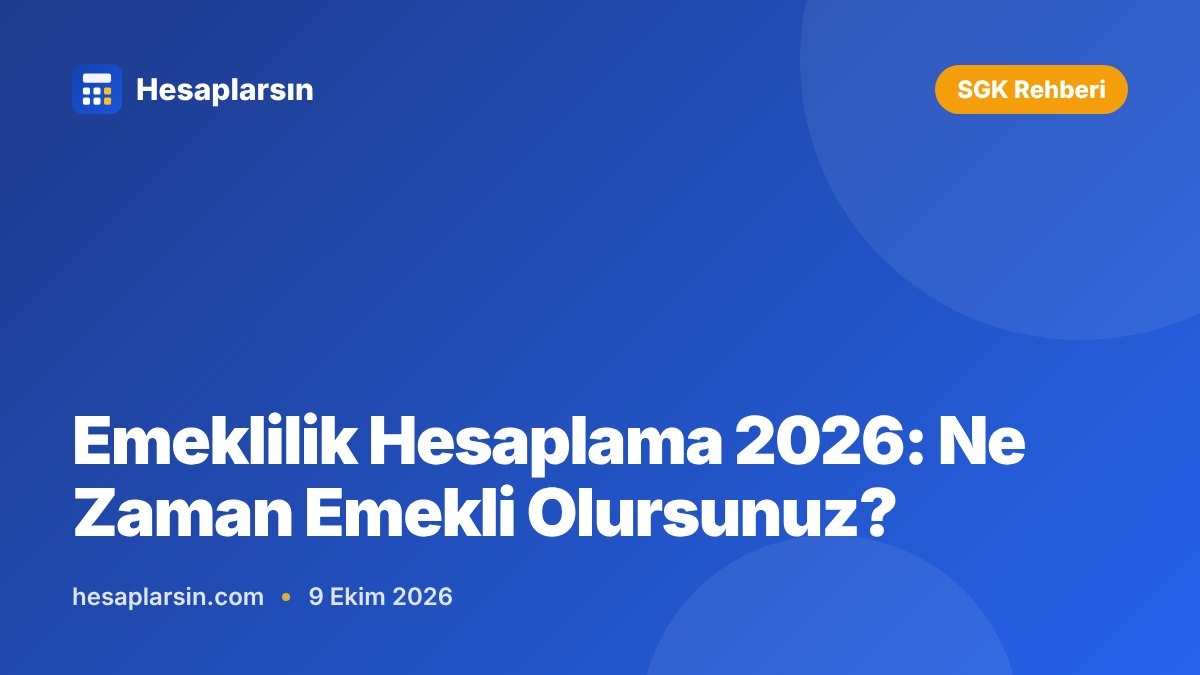
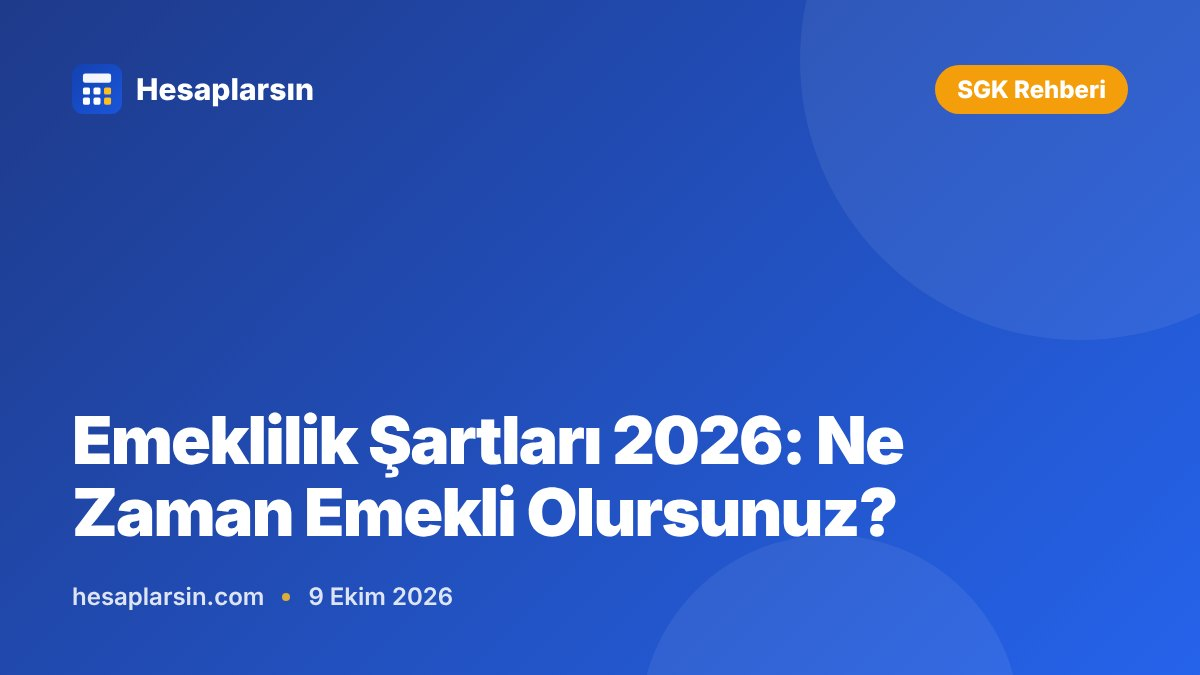
Emeklilik hesaplama: SSK, Bağ-Kur, memur; tahmini emeklilik tarihi; blog başlığı ayrıştırıldı
Claude-Session: https://claude.ai/code/session_014PFzT8PKqmvZPFyis9sZvQ

Changed region(s): [[0.3083, 0.5911, 0.8633, 0.7156]]

diff --git a/blog/emeklilik-hesaplama-2026.html b/blog/emeklilik-hesaplama-2026.html
@@ -3,12 +3,12 @@
 <head>
   <meta charset="UTF-8" />
   <meta name="viewport" content="width=device-width, initial-scale=1.0, maximum-scale=5.0" />
-  <title>Emeklilik Hesaplama 2026 – Ne Zaman Emekli Olurum?</title>
+  <title>Emeklilik Şartları 2026: SSK, Bağ-Kur ve Memur Rehberi | Hesaplarsın</title>
   <meta name="description" content="2026 emeklilik şartları: yaş, prim günü, EYT ve kademeli emeklilik tablosu. SGK’ya göre ne zaman emekli olabileceğinizi öğrenin." />
   <meta name="keywords" content="emeklilik hesaplama 2026, ne zaman emekli olurum, SGK prim günü hesaplama, emekli maaşı ne kadar, erken emeklilik şartları, emeklilik yaşı 2026, kademeli emeklilik" />
   <link rel="canonical" href="https://hesaplarsin.com/blog/emeklilik-hesaplama-2026.html" />
   <meta name="robots" content="index, follow, max-image-preview:large, max-snippet:-1" />
-  <meta property="og:title" content="Emeklilik Hesaplama 2026 – Ne Zaman Emekli Olurum?" />
+  <meta property="og:title" content="Emeklilik Şartları 2026: SSK, Bağ-Kur ve Memur Rehberi" />
   <meta property="og:description" content="2026 emeklilik şartları: yaş, prim günü, EYT ve kademeli emeklilik tablosu. SGK’ya göre ne zaman emekli olabileceğinizi öğrenin." />
   <meta property="og:url" content="https://hesaplarsin.com/blog/emeklilik-hesaplama-2026.html" />
   <meta property="og:type" content="article" />
@@ -16,7 +16,7 @@
   <meta property="article:published_time" content="2026-10-09" />
   <script async src="https://www.googletagmanager.com/gtag/js?id=G-FT582GF9N9"></script>
   <script>window.dataLayer=window.dataLayer||[];function gtag(){dataLayer.push(arguments);}gtag('consent','default',{ad_storage:'denied',ad_user_data:'denied',ad_personalization:'denied',analytics_storage:'denied',region:['AT','BE','BG','HR','CY','CZ','DK','EE','FI','FR','DE','GR','HU','IS','IE','IT','LV','LI','LT','LU','MT','NL','NO','PL','PT','RO','SK','SI','ES','SE','GB','CH'],wait_for_update:500});gtag('consent','default',{ad_storage:'granted',ad_user_data:'granted',ad_personalization:'granted',analytics_storage:'granted'});gtag('js',new Date());gtag('config','G-FT582GF9N9');</script>
-  <script type="application/ld+json">{"@context": "https://schema.org", "@type": "Article", "headline": "Emeklilik Hesaplama 2026", "datePublished": "2026-10-09", "dateModified": "2026-10-21", "author": {"@type": "Organization", "name": "Hesaplarsın", "url": "https://hesaplarsin.com"}, "publisher": {"@type": "Organization", "name": "Hesaplarsın"}, "image": ["https://hesaplarsin.com/assets/blog/emeklilik-hesaplama-2026.jpg"]}</script>
+  <script type="application/ld+json">{"@context": "https://schema.org", "@type": "Article", "headline": "Emeklilik Şartları 2026: Ne Zaman Emekli Olursunuz?", "datePublished": "2026-10-09", "dateModified": "2026-10-21", "author": {"@type": "Organization", "name": "Hesaplarsın", "url": "https://hesaplarsin.com"}, "publisher": {"@type": "Organization", "name": "Hesaplarsın"}, "image": ["https://hesaplarsin.com/assets/blog/emeklilik-hesaplama-2026.jpg"]}</script>
   <script type="application/ld+json">{"@context": "https://schema.org", "@type": "FAQPage", "mainEntity": [{"@type": "Question", "name": "2026'da emekli olmak için kaç yıl çalışmak gerekiyor?", "acceptedAnswer": {"@type": "Answer", "text": "1 Eylül 1999 sonrası sigortalı olanlar için emeklilik şartı: kadınlar 58 yaş + 7.000 prim günü + 25 yıl sigortalılık; erkekler 60 yaş + 7.000 prim günü + 25 yıl sigortalılık. 2008 sonrası sigortalılar için prim günü şartı 9.000 güne çıkmaktadır. Bu üç şartten hangisi en geç tamamlanıyorsa o tarihte emekli olunur."}}, {"@type": "Question", "name": "Emekli maaşı nasıl hesaplanır?", "acceptedAnswer": {"@type": "Answer", "text": "SGK emekli maaşı = Ortalama Aylık Kazanç × Bağlama Oranı formülüyle hesaplanır. Bağlama oranı ilk 10 yıl için yılda %2, sonraki yıllar için %1,5 artar. 25 yıl prim ödeyenlerde toplam bağlama oranı %42,5 olur. Örneğin ortalama 50.000 TL brüt maaşla 25 yıl çalışan biri yaklaşık 21.250 TL emekli maaşı alır."}}, {"@type": "Question", "name": "EYT kapsamında kimler emekli olabilir?", "acceptedAnswer": {"@type": "Answer", "text": "8 Eylül 1999'dan önce ilk defa sigortalı olan ve sigortalılık süresini dolduranlar EYT kapsamında yaş şartı aranmaksızın emekli olabilmektedir. Kadınlar için 20 yıl sigortalılık + 5.000 prim günü, erkekler için 25 yıl + 5.000 prim günü şartı aranır. 2023'te yürürlüğe giren bu hak 2026'da geçerliliğini korumaktadır."}}, {"@type": "Question", "name": "Prim günümü e-Devlet'ten öğrenebilir miyim?", "acceptedAnswer": {"@type": "Answer", "text": "Evet. e-devlet.gov.tr adresine giriş yaptıktan sonra \"SGK Hizmet Dökümü\" ya da \"SGK Tescil ve Hizmet Dökümü\" ekranından bugüne kadar biriken prim gününüzü, sigortalılık başlangıç tarihinizi ve çalışma dönemlerinizi görebilirsiniz. Ayrıca \"Emekliliğe Hak Kazanma Tarihi Sorgulama\" servisi tahmini emeklilik tarihinizi otomatik hesaplar."}}, {"@type": "Question", "name": "Emekli olduktan sonra çalışabilir miyim?", "acceptedAnswer": {"@type": "Answer", "text": "Evet, emekli olduktan sonra hem maaşınızı alıp hem de çalışmaya devam edebilirsiniz. Ancak çalışırken aylık maaşınızdan %7,5 Sosyal Güvenlik Destek Primi kesilir. Ek iş geliriniz de gelir vergisine tabidir. Bazı kamu görevleri emekli maaşının kesilmesine neden olabilir; bu nedenle yeni işe başlamadan önce SGK'ya danışılması önerilir."}}, {"@type": "Question", "name": "EYT (Emeklilikte Yaşa Takılanlar) haklarından kimler yararlanabilir?", "acceptedAnswer": {"@type": "Answer", "text": "8 Eylül 1999'dan önce sigortalı olan ve prim günü ile sigortalılık süresini dolduranlar EYT kapsamında yaş şartı aranmaksızın emekli olabilmektedir. 2023'te yürürlüğe giren bu hak, 2026 itibarıyla geçerliliğini korumaktadır."}}]}</script>
   <script type="application/ld+json">{"@context":"https://schema.org","@type":"BreadcrumbList","itemListElement":[{"@type":"ListItem","position":1,"name":"Ana Sayfa","item":"https://hesaplarsin.com"},{"@type":"ListItem","position":2,"name":"Blog","item":"https://hesaplarsin.com/blog.html"},{"@type":"ListItem","position":3,"name":"Emeklilik Hesaplama 2026","item":"https://hesaplarsin.com/blog/emeklilik-hesaplama-2026.html"}]}</script>
   <style>
@@ -165,7 +165,7 @@
     <span>⏱ 8 dk okuma</span>
   </div>
 
-  <h1>Emeklilik Hesaplama 2026: Ne Zaman Emekli Olursunuz?</h1>
+  <h1>Emeklilik Şartları 2026: Ne Zaman Emekli Olursunuz?</h1>
 
   <p>"Ne zaman emekli olurum?" sorusu Türkiye'nin en sık aranan finansal sorularından biri. Ancak cevap, sigortalılık başlangıç tarihinize, prim günü sayınıza ve doğum yılınıza göre değişiyor. Bu rehberde 2026 güncel emeklilik şartlarını, maaş hesaplamasını ve EYT haklarını açıklıyoruz.</p>
 

diff --git a/memur-emekli-zammi-hesaplama.html b/memur-emekli-zammi-hesaplama.html
@@ -198,7 +198,7 @@ p a,td a,li p a{text-decoration:underline;text-underline-offset:2px}
     
     <div class="card">
       <div class="side-title">🔗 İlgili Hesaplamalar</div>
-      <a class="ql" href="https://hesaplarsin.com/memur-maaslari.html"><i>🏛</i><span>Memur Maaşları 2026–2027<small>14 unvanın maaşı ve Ocak 2027 tahmini.</small></span></a><a class="ql" href="https://hesaplarsin.com/ogretmen-maasi.html"><i>👩🏫</i><span>Öğretmen Maaşı<small>Öğretmen ve uzman öğretmen maaşı, ek ders ücreti.</small></span></a><a class="ql" href="https://hesaplarsin.com/maas-zam-hesaplama.html"><i>📊</i><span>Maaş Zam Hesaplama<small>Zam oranına göre yeni maaşını hesapla.</small></span></a><a class="ql" href="https://hesaplarsin.com/kidem-tazminati-hesaplama.html"><i>📄</i><span>Kıdem Tazminatı<small>Kıdem tazminatı tutarını hesapla.</small></span></a><a class="ql" href="https://hesaplarsin.com/emeklilik-yasi-hesaplama.html"><i>🎖</i><span>Emeklilik Yaşı Hesaplama<small>SGK'ya göre emeklilik yaşını hesapla.</small></span></a>
+      <a class="ql" href="https://hesaplarsin.com/memur-maaslari.html"><i>🏛</i><span>Memur Maaşları 2026–2027<small>14 unvanın maaşı ve Ocak 2027 tahmini.</small></span></a><a class="ql" href="https://hesaplarsin.com/ogretmen-maasi.html"><i>👩🏫</i><span>Öğretmen Maaşı<small>Öğretmen ve uzman öğretmen maaşı, ek ders ücreti.</small></span></a><a class="ql" href="https://hesaplarsin.com/maas-zam-hesaplama.html"><i>📊</i><span>Maaş Zam Hesaplama<small>Zam oranına göre yeni maaşını hesapla.</small></span></a><a class="ql" href="https://hesaplarsin.com/kidem-tazminati-hesaplama.html"><i>📄</i><span>Kıdem Tazminatı<small>Kıdem tazminatı tutarını hesapla.</small></span></a><a class="ql" href="https://hesaplarsin.com/emeklilik-yasi-hesaplama.html"><i>🎖</i><span>Emeklilik Hesaplama<small>Ne zaman emekli olurum? SSK, Bağ-Kur, memur.</small></span></a>
     </div>
   </aside>
 </div>
@@ -243,7 +243,7 @@ p a,td a,li p a{text-decoration:underline;text-underline-offset:2px}
   <div class="meta-box"><span>🗓 Son güncelleme: <time datetime="2026-10-21">21 Ekim 2026</time></span><span>✍ Hazırlayan: Hesaplarsın Editör Ekibi</span><span>⚠ Sonuçlar bilgilendirme amaçlıdır.</span></div>
   </div>
   <h2>Diğer Hesaplama Araçları</h2>
-  <div class="related-grid"><a class="rc" href="https://hesaplarsin.com/memur-maaslari.html"><span class="ri">🏛</span><span class="rt">Memur Maaşları 2026–2027</span><span class="rd">14 unvanın maaşı ve Ocak 2027 tahmini.</span></a><a class="rc" href="https://hesaplarsin.com/ogretmen-maasi.html"><span class="ri">👩🏫</span><span class="rt">Öğretmen Maaşı</span><span class="rd">Öğretmen ve uzman öğretmen maaşı, ek ders ücreti.</span></a><a class="rc" href="https://hesaplarsin.com/maas-zam-hesaplama.html"><span class="ri">📊</span><span class="rt">Maaş Zam Hesaplama</span><span class="rd">Zam oranına göre yeni maaşını hesapla.</span></a><a class="rc" href="https://hesaplarsin.com/kidem-tazminati-hesaplama.html"><span class="ri">📄</span><span class="rt">Kıdem Tazminatı</span><span class="rd">Kıdem tazminatı tutarını hesapla.</span></a><a class="rc" href="https://hesaplarsin.com/emeklilik-yasi-hesaplama.html"><span class="ri">🎖</span><span class="rt">Emeklilik Yaşı Hesaplama</span><span class="rd">SGK'ya göre emeklilik yaşını hesapla.</span></a></div>
+  <div class="related-grid"><a class="rc" href="https://hesaplarsin.com/memur-maaslari.html"><span class="ri">🏛</span><span class="rt">Memur Maaşları 2026–2027</span><span class="rd">14 unvanın maaşı ve Ocak 2027 tahmini.</span></a><a class="rc" href="https://hesaplarsin.com/ogretmen-maasi.html"><span class="ri">👩🏫</span><span class="rt">Öğretmen Maaşı</span><span class="rd">Öğretmen ve uzman öğretmen maaşı, ek ders ücreti.</span></a><a class="rc" href="https://hesaplarsin.com/maas-zam-hesaplama.html"><span class="ri">📊</span><span class="rt">Maaş Zam Hesaplama</span><span class="rd">Zam oranına göre yeni maaşını hesapla.</span></a><a class="rc" href="https://hesaplarsin.com/kidem-tazminati-hesaplama.html"><span class="ri">📄</span><span class="rt">Kıdem Tazminatı</span><span class="rd">Kıdem tazminatı tutarını hesapla.</span></a><a class="rc" href="https://hesaplarsin.com/emeklilik-yasi-hesaplama.html"><span class="ri">🎖</span><span class="rt">Emeklilik Hesaplama</span><span class="rd">Ne zaman emekli olurum? SSK, Bağ-Kur, memur.</span></a></div>
 </article>
 
 <footer>

diff --git a/yas-hesaplama.html b/yas-hesaplama.html
@@ -197,7 +197,7 @@ p a,td a,li p a{text-decoration:underline;text-underline-offset:2px}
     
     <div class="card">
       <div class="side-title">🔗 İlgili Hesaplamalar</div>
-      <a class="ql" href="https://hesaplarsin.com/gun-hesaplama.html"><i>📅</i><span>Gün Hesaplama<small>İki tarih arasındaki gün sayısını hesapla.</small></span></a><a class="ql" href="https://hesaplarsin.com/is-gunu-hesaplama.html"><i>📆</i><span>İş Günü Hesaplama<small>İki tarih arasındaki iş gününü hesapla.</small></span></a><a class="ql" href="https://hesaplarsin.com/emeklilik-yasi-hesaplama.html"><i>🎖</i><span>Emeklilik Yaşı Hesaplama<small>SGK'ya göre emeklilik yaşını hesapla.</small></span></a><a class="ql" href="https://hesaplarsin.com/ortalama-hesaplama.html"><i>➗</i><span>Ortalama Hesaplama<small>Sayıların ortalamasını hesapla.</small></span></a><a class="ql" href="https://hesaplarsin.com/yuzde-hesaplama.html"><i>💯</i><span>Yüzde Hesaplama<small>Yüzde artış ve indirim hesapla.</small></span></a>
+      <a class="ql" href="https://hesaplarsin.com/gun-hesaplama.html"><i>📅</i><span>Gün Hesaplama<small>İki tarih arasındaki gün sayısını hesapla.</small></span></a><a class="ql" href="https://hesaplarsin.com/is-gunu-hesaplama.html"><i>📆</i><span>İş Günü Hesaplama<small>İki tarih arasındaki iş gününü hesapla.</small></span></a><a class="ql" href="https://hesaplarsin.com/emeklilik-yasi-hesaplama.html"><i>🎖</i><span>Emeklilik Hesaplama<small>Ne zaman emekli olurum? SSK, Bağ-Kur, memur.</small></span></a><a class="ql" href="https://hesaplarsin.com/ortalama-hesaplama.html"><i>➗</i><span>Ortalama Hesaplama<small>Sayıların ortalamasını hesapla.</small></span></a><a class="ql" href="https://hesaplarsin.com/yuzde-hesaplama.html"><i>💯</i><span>Yüzde Hesaplama<small>Yüzde artış ve indirim hesapla.</small></span></a>
     </div>
   </aside>
 </div>
@@ -248,7 +248,7 @@ p a,td a,li p a{text-decoration:underline;text-underline-offset:2px}
   <div class="meta-box"><span>🗓 Son güncelleme: <time datetime="2026-10-21">21 Ekim 2026</time></span><span>✍ Hazırlayan: Hesaplarsın Editör Ekibi</span><span>⚠ Sonuçlar bilgilendirme amaçlıdır.</span></div>
   </div>
   <h2>Diğer Hesaplama Araçları</h2>
-  <div class="related-grid"><a class="rc" href="https://hesaplarsin.com/gun-hesaplama.html"><span class="ri">📅</span><span class="rt">Gün Hesaplama</span><span class="rd">İki tarih arasındaki gün sayısını hesapla.</span></a><a class="rc" href="https://hesaplarsin.com/is-gunu-hesaplama.html"><span class="ri">📆</span><span class="rt">İş Günü Hesaplama</span><span class="rd">İki tarih arasındaki iş gününü hesapla.</span></a><a class="rc" href="https://hesaplarsin.com/emeklilik-yasi-hesaplama.html"><span class="ri">🎖</span><span class="rt">Emeklilik Yaşı Hesaplama</span><span class="rd">SGK'ya göre emeklilik yaşını hesapla.</span></a><a class="rc" href="https://hesaplarsin.com/ortalama-hesaplama.html"><span class="ri">➗</span><span class="rt">Ortalama Hesaplama</span><span class="rd">Sayıların ortalamasını hesapla.</span></a><a class="rc" href="https://hesaplarsin.com/yuzde-hesaplama.html"><span class="ri">💯</span><span class="rt">Yüzde Hesaplama</span><span class="rd">Yüzde artış ve indirim hesapla.</span></a></div>
+  <div class="related-grid"><a class="rc" href="https://hesaplarsin.com/gun-hesaplama.html"><span class="ri">📅</span><span class="rt">Gün Hesaplama</span><span class="rd">İki tarih arasındaki gün sayısını hesapla.</span></a><a class="rc" href="https://hesaplarsin.com/is-gunu-hesaplama.html"><span class="ri">📆</span><span class="rt">İş Günü Hesaplama</span><span class="rd">İki tarih arasındaki iş gününü hesapla.</span></a><a class="rc" href="https://hesaplarsin.com/emeklilik-yasi-hesaplama.html"><span class="ri">🎖</span><span class="rt">Emeklilik Hesaplama</span><span class="rd">Ne zaman emekli olurum? SSK, Bağ-Kur, memur.</span></a><a class="rc" href="https://hesaplarsin.com/ortalama-hesaplama.html"><span class="ri">➗</span><span class="rt">Ortalama Hesaplama</span><span class="rd">Sayıların ortalamasını hesapla.</span></a><a class="rc" href="https://hesaplarsin.com/yuzde-hesaplama.html"><span class="ri">💯</span><span class="rt">Yüzde Hesaplama</span><span class="rd">Yüzde artış ve indirim hesapla.</span></a></div>
 </article>
 
 <footer>

diff --git a/index.html b/index.html
@@ -651,7 +651,7 @@
         <a href="https://hesaplarsin.com/kidem-tazminati-hesaplama.html">Kıdem Tazminatı</a>
         <a href="https://hesaplarsin.com/ihbar-tazminati-hesaplama.html">İhbar Tazminatı</a>
         <a href="https://hesaplarsin.com/fazla-mesai-hesaplama.html">Fazla Mesai</a>
-        <a href="https://hesaplarsin.com/emeklilik-yasi-hesaplama.html">Emeklilik Yaşı</a>
+        <a href="https://hesaplarsin.com/emeklilik-yasi-hesaplama.html">Emeklilik Hesaplama</a>
       </div>
       <div class="footer-col">
         <h4 role="heading" aria-level="3">Hesaplarsın</h4>
@@ -723,7 +723,7 @@ const TOOLS = [
   {ico:'🧾',name:'İşsizlik Maaşı Hesaplama',desc:'2026 işsizlik maaşını ve süresini hesapla.',url:'/issizlik-maasi-hesaplama.html',cat:'maas',badge:'new',tags:['işsizlik maaşı','işsizlik ödeneği','iskur','işten çıkarılma']},
   {ico:'📊',name:'Maaş Zam Hesaplama',desc:'Zam oranına göre yeni maaşını hesapla.',url:'/maas-zam-hesaplama.html',cat:'maas',badge:'',tags:['maaş','zam','artış','oran']},
   {ico:'🏆',name:'Prim Hesaplama',desc:'Satış tutarına göre kazanacağın primi hesapla.',url:'/prim-hesaplama.html',cat:'maas',badge:'',tags:['prim','satış','komisyon']},
-  {ico:'🎖',name:'Emeklilik Yaşı Hesaplama',desc:"SGK'ya göre emeklilik yaşını hesapla.",url:'/emeklilik-yasi-hesaplama.html',cat:'maas',badge:'',tags:['emeklilik','sgk','yaş','emekli']},
+  {ico:'🎖',name:'Emeklilik Hesaplama',desc:'Ne zaman emekli olurum? SSK, Bağ-Kur, memur.',url:'/emeklilik-yasi-hesaplama.html',cat:'maas',badge:'',tags:['emeklilik','sgk','yaş','emekli']},
 
   {ico:'💵',name:'Asgari Ücret 2026',desc:'Net, brüt asgari ücret ve işveren maliyeti.',url:'/asgari-ucret-hesaplama.html',cat:'maas',badge:'popular',tags:['asgari ücret','net','brüt','işveren maliyeti','2026']},
   {ico:'🏖',name:'Yıllık İzin Hesaplama',desc:'Kıdeme göre yıllık izin hakkını hesapla.',url:'/yillik-izin-hesaplama.html',cat:'maas',badge:'',tags:['yıllık izin','izin','kıdem','iş kanunu']},
